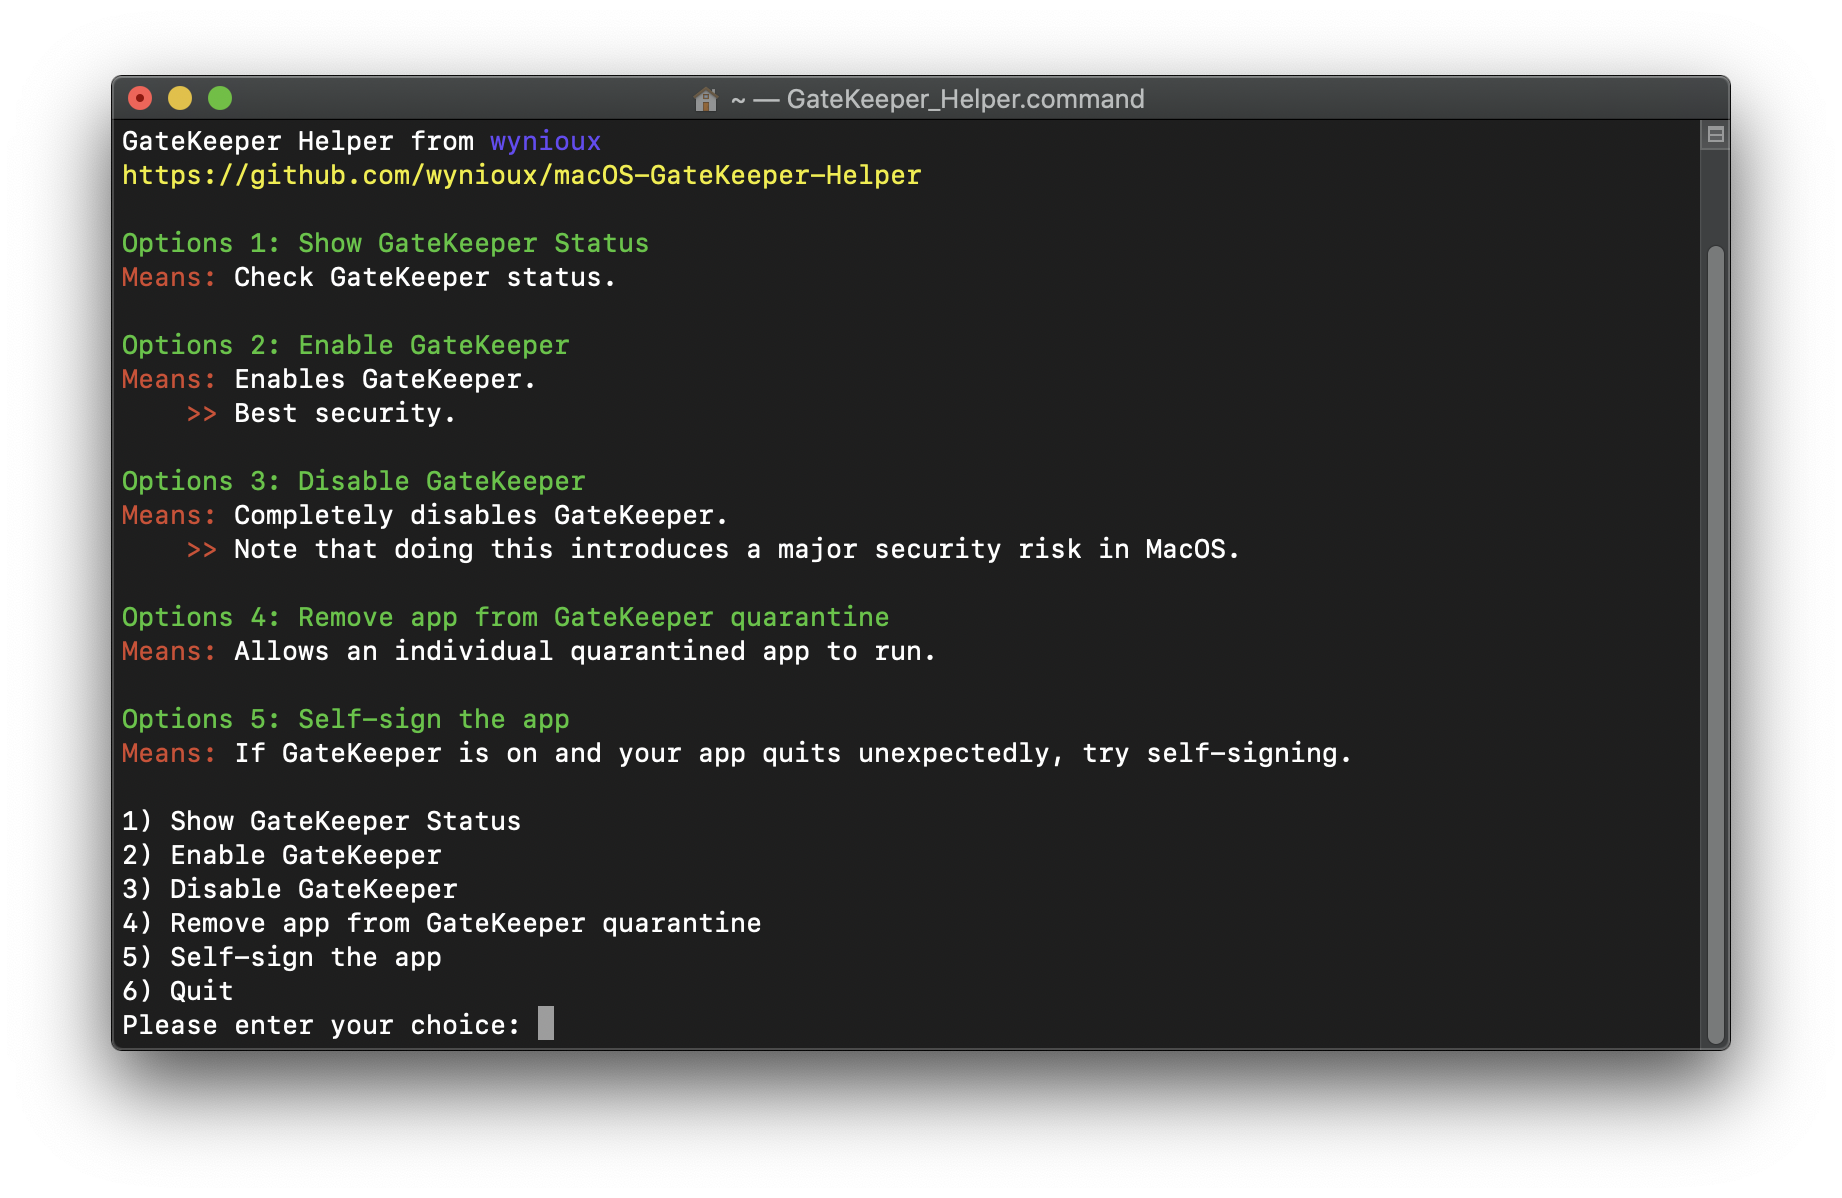
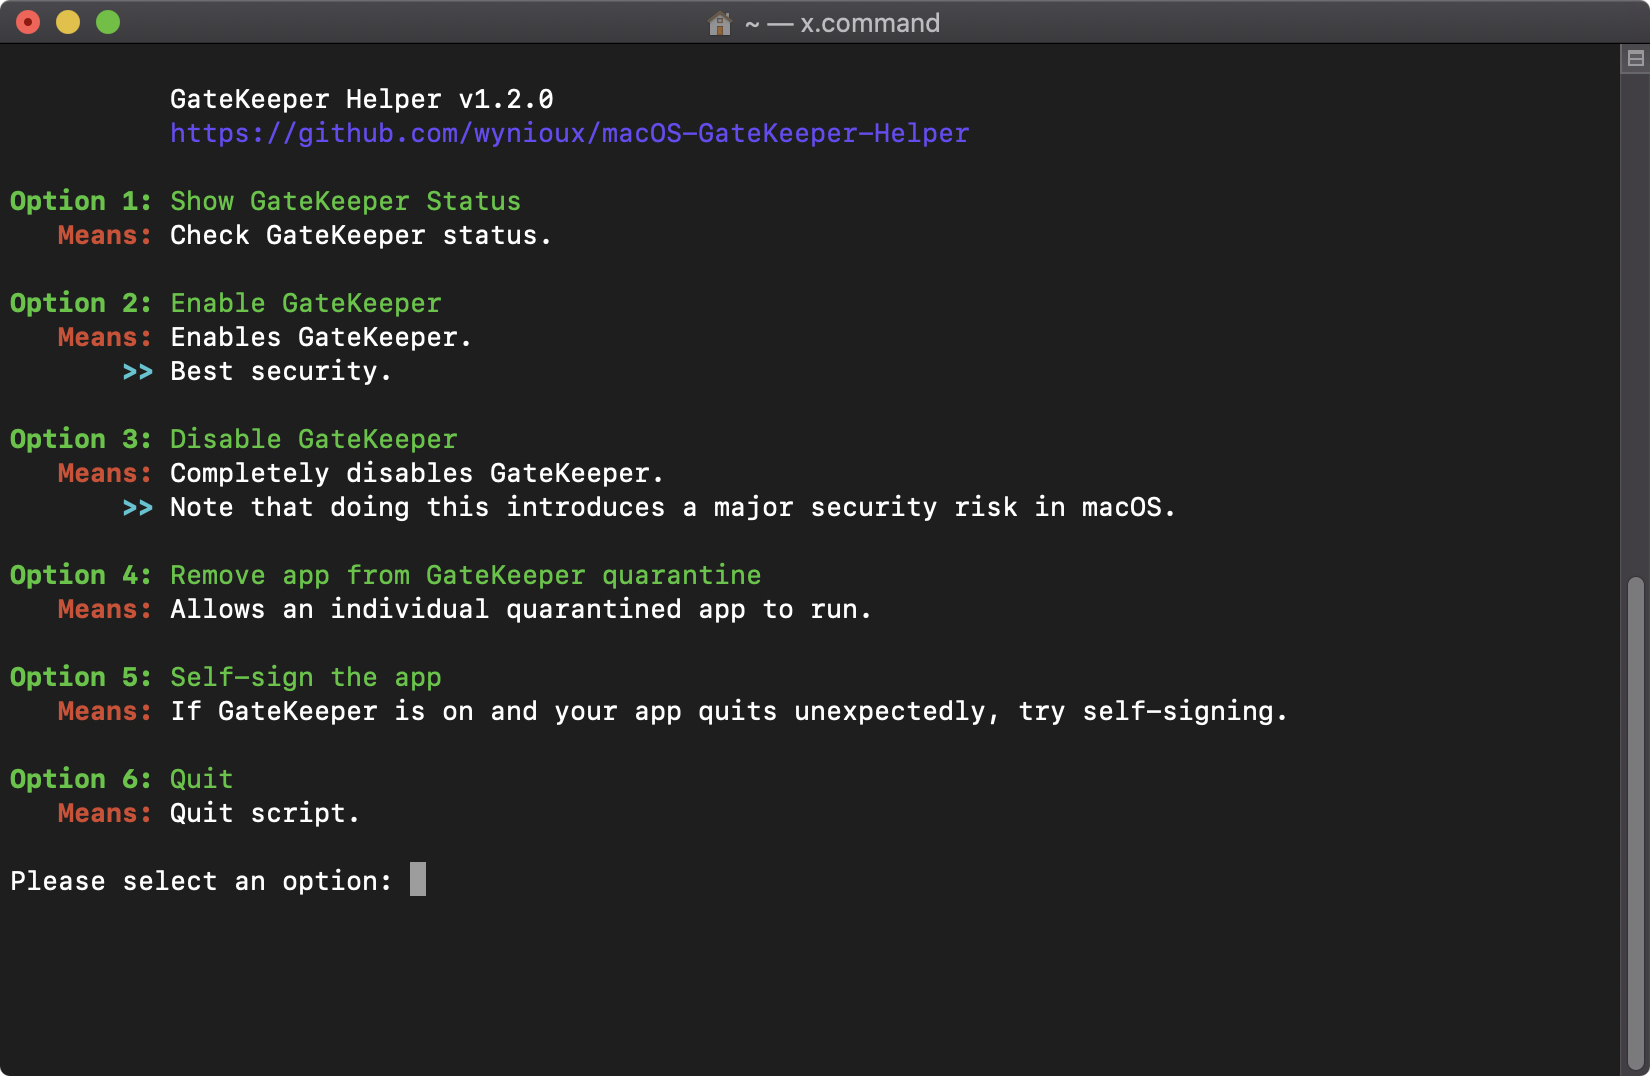
Update
Screenshot update and README.md formatted.

diff --git a/README.md b/README.md
@@ -6,14 +6,13 @@
 
 <div align="center">
 
-  [![Status](https://img.shields.io/badge/status-active-success.svg)]() 
-  [![Release](https://img.shields.io/github/release/wynioux/macOS-GateKeeper-Helper)](https://github.com/wynioux/macOS-GateKeeper-Helper/releases/latest)
-  [![Stars](https://img.shields.io/github/stars/wynioux/macOS-GateKeeper-Helper)](https://github.com/wynioux/macOS-GateKeeper-Helper/stargazers)
-  [![Forks](https://img.shields.io/github/forks/wynioux/macOS-GateKeeper-Helper)](https://github.com/wynioux/macOS-GateKeeper-Helper/network/members)
-  [![Downloads](https://img.shields.io/github/downloads/wynioux/macOS-GateKeeper-Helper/total)](https://github.com/wynioux/macOS-GateKeeper-Helper/releases/download/v1.1.0/GateKeeper_Helper.command)
-  [![Size](https://img.shields.io/github/size/wynioux/macOS-GateKeeper-Helper/GateKeeper_Helper.command)]()
-  [![License](https://img.shields.io/github/license/wynioux/macOS-GateKeeper-Helper)](/LICENSE)
-
+[![Status](https://img.shields.io/badge/status-active-success.svg)]()
+[![Release](https://img.shields.io/github/release/wynioux/macOS-GateKeeper-Helper)](https://github.com/wynioux/macOS-GateKeeper-Helper/releases/latest)
+[![Stars](https://img.shields.io/github/stars/wynioux/macOS-GateKeeper-Helper)](https://github.com/wynioux/macOS-GateKeeper-Helper/stargazers)
+[![Forks](https://img.shields.io/github/forks/wynioux/macOS-GateKeeper-Helper)](https://github.com/wynioux/macOS-GateKeeper-Helper/network/members)
+[![Downloads](https://img.shields.io/github/downloads/wynioux/macOS-GateKeeper-Helper/total)](https://github.com/wynioux/macOS-GateKeeper-Helper/releases/download/v1.2.0/GateKeeper_Helper.command)
+[![Size](https://img.shields.io/github/size/wynioux/macOS-GateKeeper-Helper/GateKeeper_Helper.command)]()
+[![License](https://img.shields.io/github/license/wynioux/macOS-GateKeeper-Helper)](/LICENSE)
 
 </div>
 
@@ -24,6 +23,7 @@
 </p>
 
 ## 📝 Table of Contents
+
 - [About](#about)
 - [Usage](#usage)
 - [Tips](#tips)
@@ -31,6 +31,7 @@
 ## 🧐 About <a name = "about"></a>
 
 This is a simple useful tool for users which allow you to do the following:
+
 1. Show GateKeeper Status.
 2. Enable GateKeeper.
 3. Disable GateKeeper.
@@ -40,8 +41,7 @@ This is a simple useful tool for users which allow you to do the following:
 ### What is GateKeeper?
 
 - Gatekeeper is a security feature of the macOS operating system by Apple.
-It enforces code signing and verifies downloaded applications before allowing them to run.
-
+  It enforces code signing and verifies downloaded applications before allowing them to run.
 
 ### Why should I use?
 
@@ -53,7 +53,6 @@ It enforces code signing and verifies downloaded applications before allowing th
 
 Just download "GateKeeper_Helper.command" file and run it.
 
-
 ## 🎉 Tips <a name = "tips"></a>
 
 Note: To open helper for first time, right click on it then click open.
@@ -63,4 +62,5 @@ Or type via Terminal:
 ```
 chmod +x GateKeeper_Helper.command
 ```
+
 then run.
